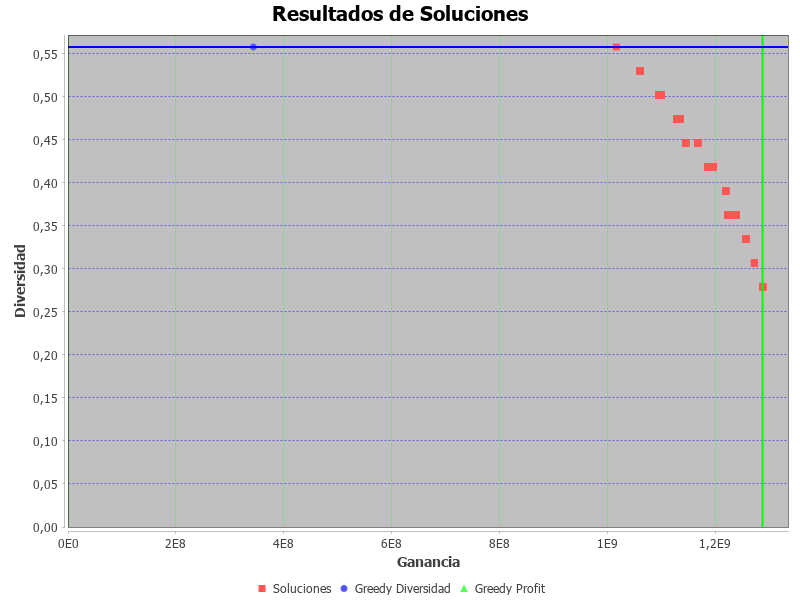
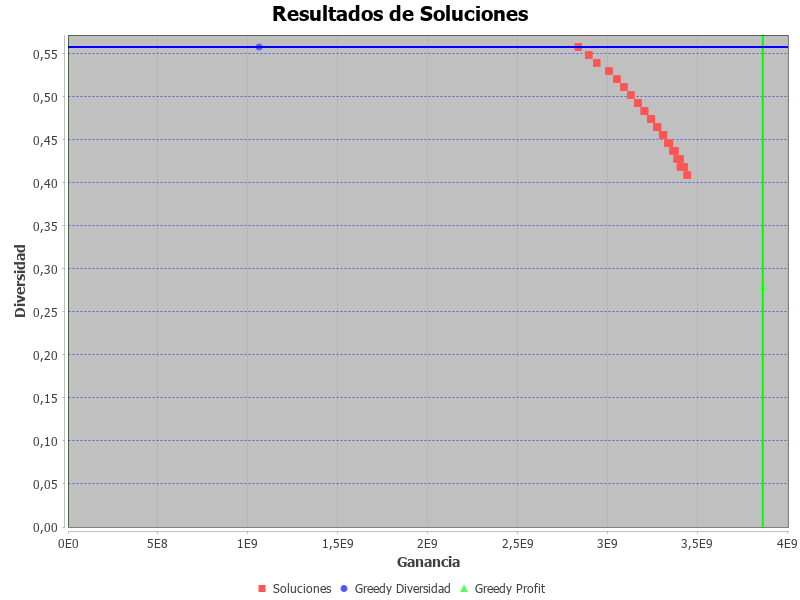
algo

diff --git a/src/main/java/rotacionCultivos/ExcelExporter.java b/src/main/java/rotacionCultivos/ExcelExporter.java
@@ -12,90 +12,7 @@ import java.util.List;
 
 public class ExcelExporter {
 
-	public static void saveSolutionsToExcel(String fileName, List<IntegerSolution> solutions, AgriculturalData data) {
-		Workbook workbook = new XSSFWorkbook();
-		Sheet sheet = workbook.createSheet("Solutions");
-
-		// Crear estilo para valores monetarios
-		CellStyle currencyStyle = workbook.createCellStyle();
-		DataFormat format = workbook.createDataFormat();
-		currencyStyle.setDataFormat(format.getFormat("$#,##0.00"));
-
-		// Crear estilo de encabezado en negrita
-		CellStyle headerStyle = workbook.createCellStyle();
-		Font headerFont = workbook.createFont();
-		headerFont.setBold(true);
-		headerStyle.setFont(headerFont);
-
-		int rowNum = 0;
-		int solutionCounter = 1; // Contador de soluciones
-
-		for (IntegerSolution solution : solutions) {
-			// Crear encabezado para cada solución
-			Row headerRow = sheet.createRow(rowNum++);
-			Cell solucionHeader = headerRow.createCell(0);
-			solucionHeader.setCellValue("Solución " + solutionCounter++);
-			solucionHeader.setCellStyle(headerStyle);
-
-			for (int t = 0; t < data.cantSemestres; t++) {
-				Cell cell = headerRow.createCell(t + 1);
-				cell.setCellValue("Semestre " + (t + 1));
-				cell.setCellStyle(headerStyle);
-			}
-
-			Cell gananciaHeader = headerRow.createCell(data.cantSemestres + 1);
-			gananciaHeader.setCellValue("Ganancia Total");
-			gananciaHeader.setCellStyle(headerStyle);
-
-			Cell diversidadHeader = headerRow.createCell(data.cantSemestres + 2);
-			diversidadHeader.setCellValue("Diversidad");
-			diversidadHeader.setCellStyle(headerStyle);
-
-			for (int parcela = 0; parcela < data.cantParcelas; parcela++) {
-				Row row = sheet.createRow(rowNum++);
-
-				// Agregar número de parcela
-				Cell parcelaCell = row.createCell(0);
-				parcelaCell.setCellValue("Parcela " + (parcela + 1));
-				parcelaCell.setCellStyle(headerStyle);
-
-				// Llenar datos de cultivos por semestre
-				for (int semestre = 0; semestre < data.cantSemestres; semestre++) {
-					int variableIndex = parcela * data.cantSemestres + semestre;
-					int cultivo = solution.getVariable(variableIndex);
-					row.createCell(semestre + 1).setCellValue(cultivo);
-				}
-
-				// Agregar ganancia y diversidad solo en la primera fila de la solución
-				if (parcela == 0) {
-					double totalProfit = -solution.getObjective(0); // Negativo porque se maximizó
-					double diversity = -solution.getObjective(1); // Negativo porque se maximizó
-					Cell profitCell = row.createCell(data.cantSemestres + 1);
-					profitCell.setCellValue(totalProfit);
-					profitCell.setCellStyle(currencyStyle);
-					row.createCell(data.cantSemestres + 2).setCellValue(diversity);
-				}
-			}
-
-			// Agregar una fila en blanco para separar las soluciones
-			rowNum++;
-		}
-
-		// Ajustar automáticamente el tamaño de las columnas
-		for (int col = 0; col <= data.cantSemestres + 3; col++) {
-			sheet.autoSizeColumn(col);
-		}
-
-		// Guardar el archivo Excel
-		try (FileOutputStream fileOut = new FileOutputStream(fileName)) {
-			workbook.write(fileOut);
-			workbook.close();
-		} catch (IOException e) {
-			System.err.println("Error al escribir el archivo Excel: " + e.getMessage());
-		}
-	}
-
-	public static void saveSolutionsToExcel2(String fileName, IntegerSolution greedyProfit,
+	public static void saveSolutionsToExcel(String fileName, IntegerSolution greedyProfit,
 			IntegerSolution greedyDiversity, List<IntegerSolution> solutions, AgriculturalData data) {
 		Workbook workbook = new XSSFWorkbook();
 		Sheet sheet = workbook.createSheet("Solutions");

diff --git a/src/main/java/rotacionCultivos/Main.java b/src/main/java/rotacionCultivos/Main.java
@@ -63,7 +63,7 @@ public class Main extends AbstractAlgorithmRunner {
 	        problem,
 	        crossover,
 	        mutation,
-	        500 // Tamaño de la población
+	        100 // Tamaño de la población
 	    ).setMaxEvaluations(100000)
 	     .setSolutionListEvaluator(new SequentialSolutionListEvaluator<>())
 	     .build();
@@ -80,24 +80,11 @@ public class Main extends AbstractAlgorithmRunner {
 	    System.out.print("Greedy ganancia: ");
 	    System.out.println(greedyProfitResult);
 	    
-
-		/*
-		 * System.out.println("Guardando resultados greedy de ganancia...");
-		 * ExcelExporter.saveSolutionsToExcel("greedy_profit_results.xlsx",
-		 * greedyProfitResult, data);
-		 * System.out.println("Guardando resultados greedy de diversidad...");
-		 * ExcelExporter.saveSolutionsToExcel("greedy_diversity_results.xlsx",
-		 * greedyDiversityResult, data);
-		 * System.out.println("Guardando resultados algoritmo evolutivo...");
-		 * ExcelExporter.saveSolutionsToExcel("AE_results.xlsx", population, data);
-		 * System.out.println("Todos los resutados se guardaron correctamente.");
-		 */
-	    
 	    System.out.println("Generando grafico de soluciones...");
 	    ScatterPlot.generateScatterPlot("FUN.csv", "scatter_plot.png", - greedyProfitResult.get(0).getObjective(0), - greedyProfitResult.get(0).getObjective(1), - greedyDiversityResult.get(0).getObjective(0), - greedyDiversityResult.get(0).getObjective(1));
 	    
 	    System.out.println("Guardando resultados en archivo excel...");
-		//ExcelExporter.saveSolutionsToExcel2("AE_results.xlsx", greedyProfitResult.get(0), greedyDiversityResult.get(0), population, data);
+		ExcelExporter.saveSolutionsToExcel("AE_results.xlsx", greedyProfitResult.get(0), greedyDiversityResult.get(0), population, data);
 		System.out.println("Todos los resutados se guardaron correctamente.");
 	    
 	}
